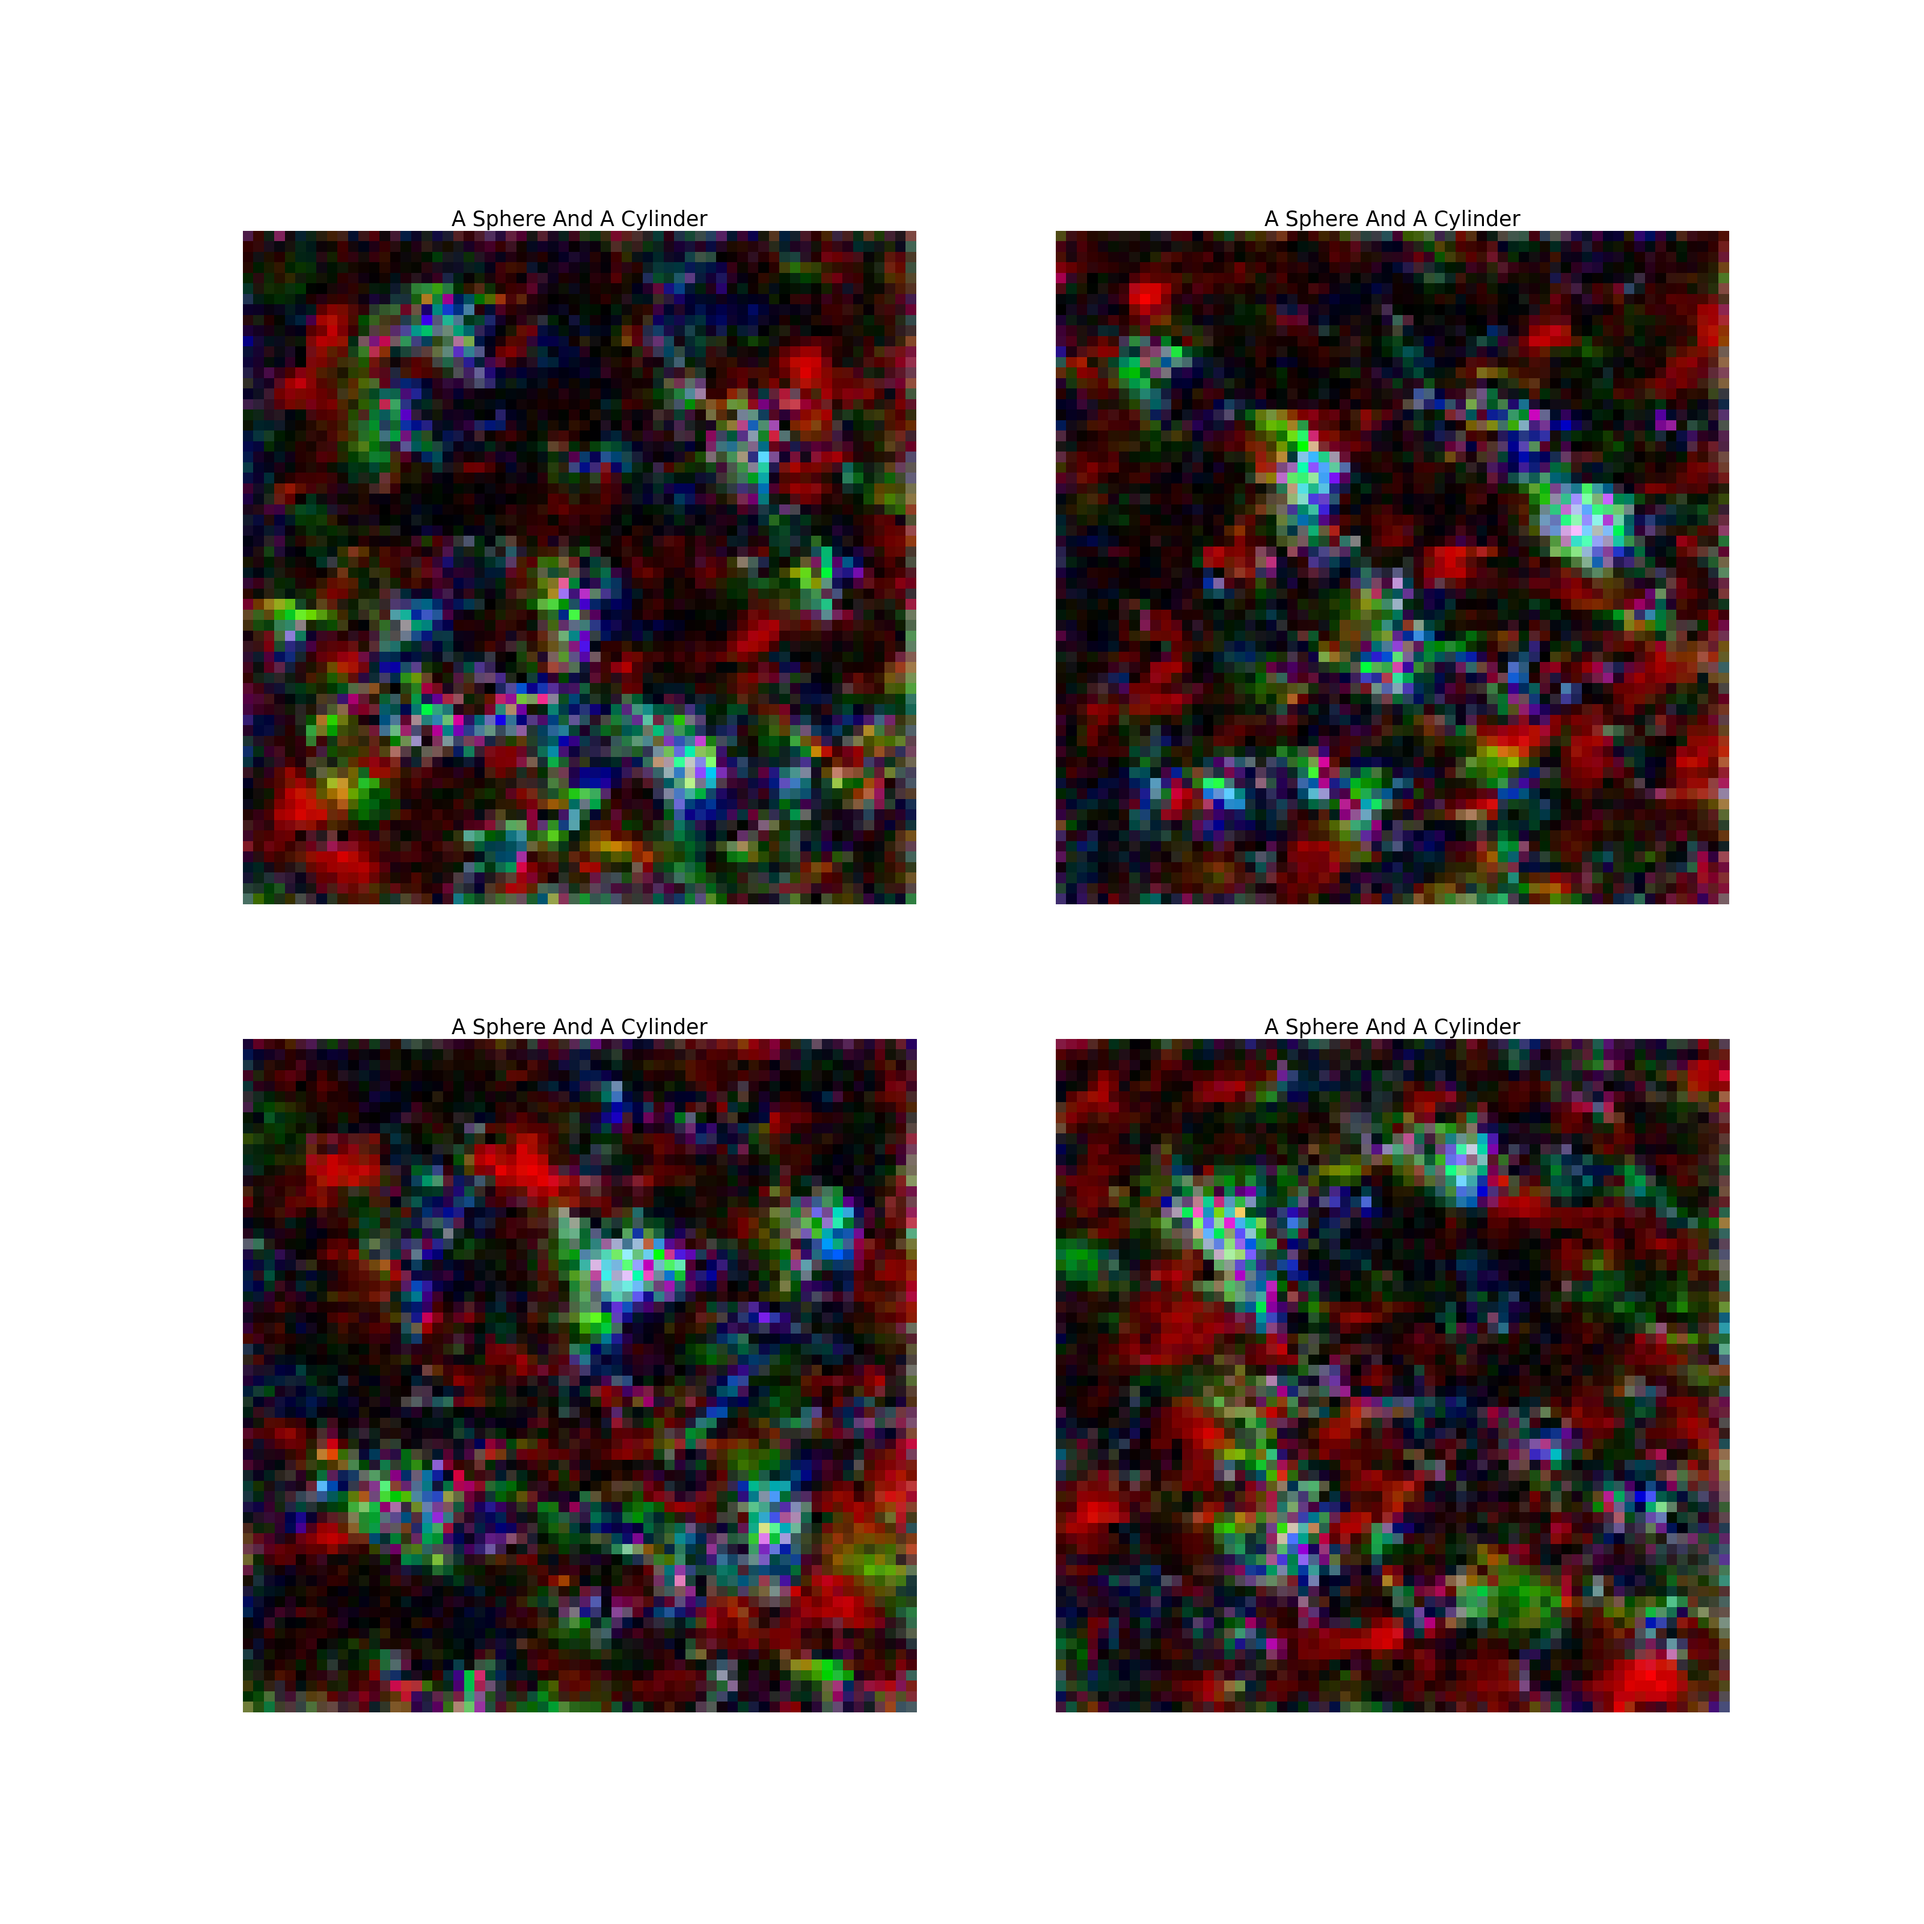
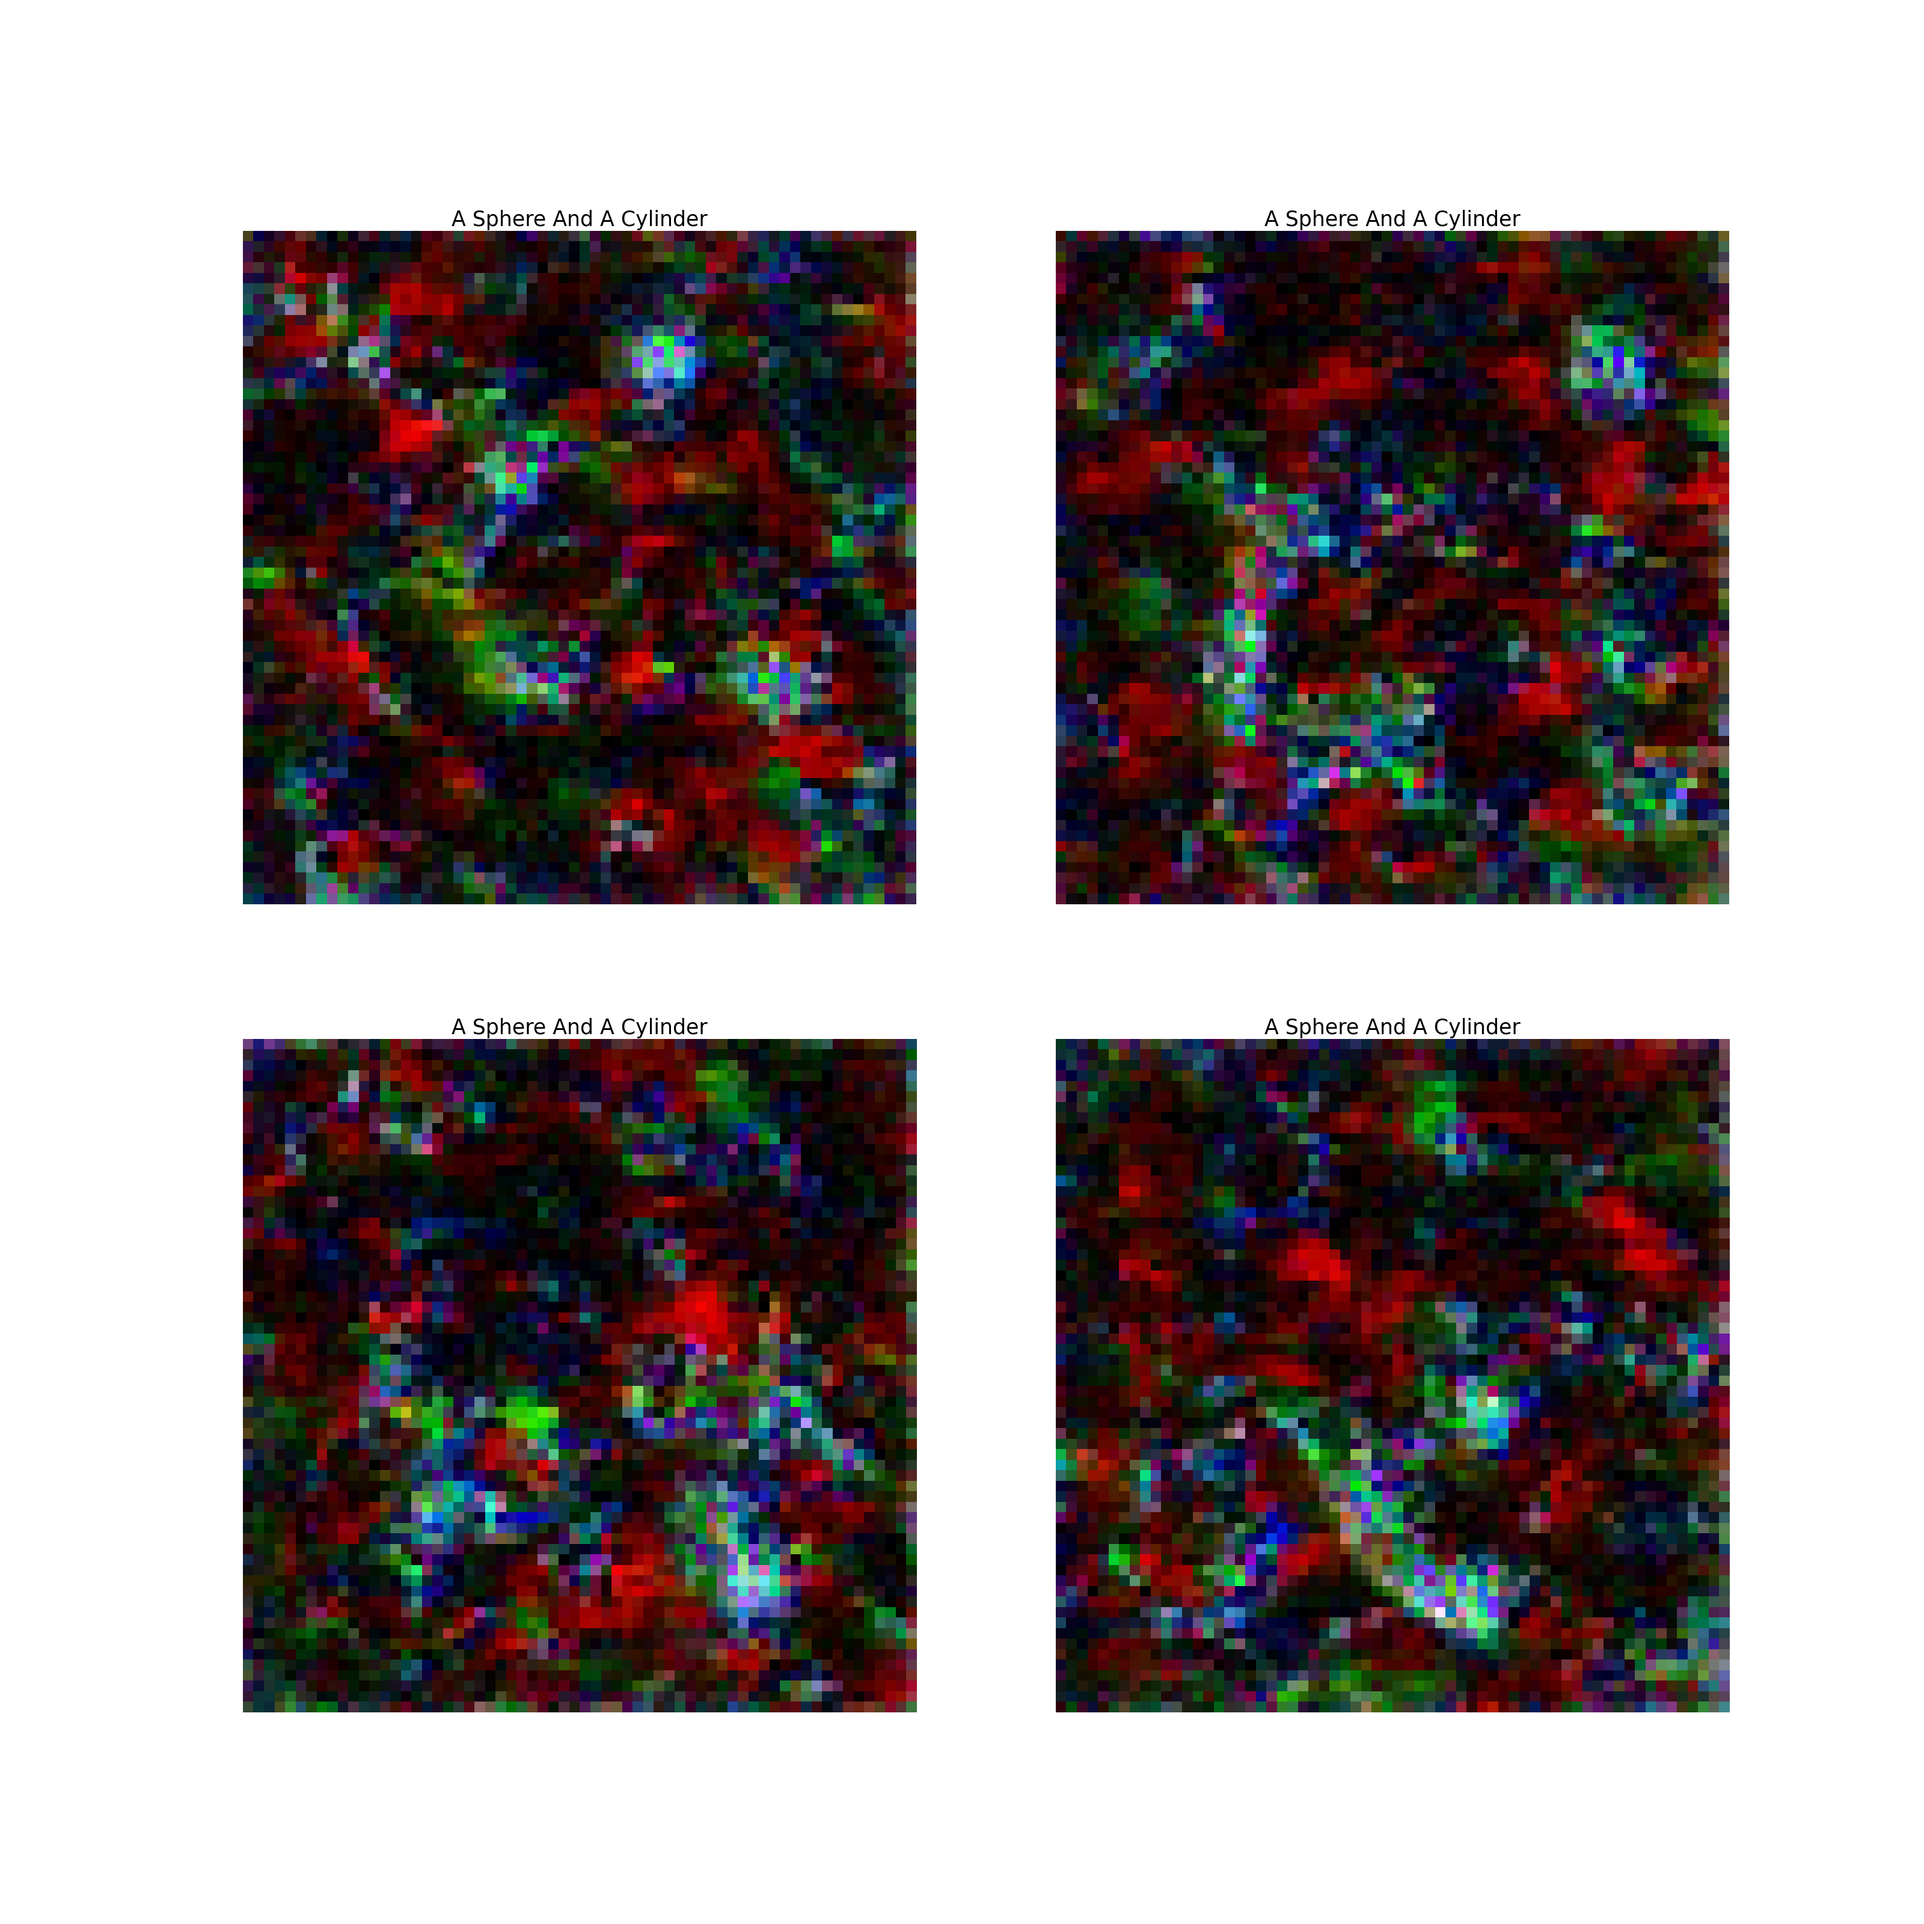
uncond ok

diff --git a/ebm_finetune/finetune.py b/ebm_finetune/finetune.py
@@ -33,7 +33,7 @@ def base_train_step(
     """
     tokens, masks, reals = [x.to(device) for x in batch]
     
-    th.save(reals, os.path.join('/home/zjf/repo/ebm_new/tmp_out', 'out.pth'))
+    # th.save(reals, os.path.join('/home/zjf/repo/ebm_new/tmp_out', 'out.pth'))
     timesteps = th.randint(
         0, len(diffusion.betas) - 1, (reals.shape[0],), device=device
     )
@@ -124,6 +124,7 @@ def run_ebm_finetune_epoch(
     upsample_factor=4,
     image_to_upsample='low_res_face.png',
     energy_mode = False,
+    shapenet=True
 ):
     if train_upsample: train_step = upsample_train_step
     else: train_step = base_train_step
@@ -158,41 +159,42 @@ def run_ebm_finetune_epoch(
                 print(f"Sampling from model at iteration {train_idx}")
             
             
-            # if energy_mode:
-            #     sampler = utils.energy_sample
-            #     # sampler = utils.sample
-            # else:
-            #     sampler = utils.sample
+            if energy_mode:
+                sampler = utils.energy_sample
+                # sampler = utils.sample
+            else:
+                sampler = utils.sample
             
-            # samples =sampler(
-            #     uncond = uncond,
-            #     model=model,
-            #     options=options,
-            #     batch_size=sample_bs,
-            #     guidance_scale=sample_gs, 
-            #     device=device,
-            #     prediction_respacing=sample_respacing,
-            # ).detach()
-            # sample_save_path = os.path.join(outputs_dir, f"{train_idx}.png")
-            # train_util.pred_to_pil(samples).save(sample_save_path)
-            # if uncond:
-            #      if is_master:
-            #         wandb_run.log(
-            #             {
-            #                 **log,
-            #                 "iter": train_idx,
-            #                 "samples": wandb.Image(sample_save_path, caption="Unconditional"),
-            #             }
-            #         )
-            # else:
-            #     if is_master:
-            #         wandb_run.log(
-            #             {
-            #                 **log,
-            #                 "samples": wandb.Image(sample_save_path,caption=prompt["caption"]),
-            #             }
-            #      )
-            # print(f"Saved sample {sample_save_path}")
+            samples =sampler(
+                uncond = uncond,
+                model=model,
+                options=options,
+                batch_size=sample_bs,
+                guidance_scale=sample_gs, 
+                device=device,
+                prediction_respacing=sample_respacing,
+                shapenet=shapenet
+            ).detach()
+            sample_save_path = os.path.join(outputs_dir, f"{epoch}_{train_idx}.png")
+            train_util.pred_to_pil(samples).save(sample_save_path)
+            if uncond:
+                 if is_master:
+                    wandb_run.log(
+                        {
+                            **log,
+                            "iter": train_idx,
+                            "samples": wandb.Image(sample_save_path, caption="Unconditional"),
+                        }
+                    )
+            else:
+                if is_master:
+                    wandb_run.log(
+                        {
+                            **log,
+                            "samples": wandb.Image(sample_save_path,caption=prompt["caption"]),
+                        }
+                 )
+            print(f"Saved sample {sample_save_path}")
             
         if is_master and ((train_idx % 500 == 0 and train_idx > 0) or (train_idx==0 and epoch==0)):
             train_util.save_model(model, checkpoints_dir, train_idx, epoch)

diff --git a/inf_sample_shapenet.py b/inf_sample_shapenet.py
@@ -78,7 +78,7 @@ model_path1= args.ckpt_path #
 options["noise_schedule"]= "linear"
 options["learn_sigma"] = False
 options["use_fp16"] = False
-options["num_classes"] = ""  # "4,"
+options["num_classes"] = None  # "4,"
 options["dataset"] = "clevr_norel"
 options["image_size"] =   128#  128 , 3 
 options["num_channels"] = 128 #192 
@@ -147,6 +147,11 @@ print(masks)
 print(labels.shape)
 
 
+model_kwargs = dict(
+        y=None,
+        masks=None
+            )
+full_batch_size = batch_size
 
 def model_fn_t(x_t, ts, **kwargs):
     cond_eps = model1(x_t, ts,eval=True, **kwargs)
@@ -160,17 +165,7 @@ def model_fn_t(x_t, ts, **kwargs):
 
 
 def cfg_model_fn(x_t, ts, **kwargs):
-    half = x_t[:1]
-    combined = th.cat([half] * kwargs['y'].size(0), dim=0)
-    eps = model1(combined, ts,eval=True, **kwargs)
-    # eps, rest = model_out[:, :3], model_out[:, 3:]
-
-    cond_eps, uncond_eps = eps[:-1], eps[-1:]
-    # assume weights are equal to guidance scale
-    # print(cond_eps.shape,uncond_eps.shape)
-    half_eps = uncond_eps + guidance_scale*(cond_eps - uncond_eps).sum(dim=0, keepdim=True)
-    eps = th.cat([half_eps] * x_t.size(0), dim=0)
-    return eps
+    return model1(x_t, ts, y=None,masks=None, eval=True)
 
 def cfg_model_fn_noen(x_t, ts, **kwargs):
     half = x_t[:1]
@@ -230,8 +225,9 @@ la_steps = 20
 la_step_sizes = diffusion.betas * 0.035
 
 def gradient_cha(x_t, ts, **kwargs):
-    half = x_t[:1]
-    combined = th.cat([half] * kwargs['y'].size(0), dim=0)
+    # half = x_t[:1]
+    # combined = th.cat([half] * kwargs['y'].size(0), dim=0)
+    combined = x_t
     energy_norm,eps = model1(combined, ts, mala_sampler=True,**kwargs)
 
     cond_energy,uncond_energy = energy_norm[:-1], energy_norm[-1:]
@@ -284,7 +280,7 @@ for k in range(4):
         samples = diffusion.p_sample_loop(
             sampler,
             cfg_model_fn,
-            (full_batch_size, 3, 64, 64),
+            (full_batch_size, 3, 128, 128),
             device=device,
             clip_denoised=True,
             progress=True,

diff --git a/inf_sample_shapenet_new.py b/inf_sample_shapenet_new.py
@@ -1,0 +1,63 @@
+from ebm_finetune import train_util, utils
+from composable_diffusion.model_creation import (
+    create_model_and_diffusion,
+    model_and_diffusion_defaults,
+    create_gaussian_diffusion,
+    Sampler_create_gaussian_diffusion,
+)
+import argparse
+import torch
+import os
+
+
+parser = argparse.ArgumentParser()
+parser.add_argument('--ckpt_path', required=True)
+parser.add_argument('--sampler', type=str, default="mala",choices=["MALA", "HMC", "UHMC", "ULA","Rev_Diff"])
+args = parser.parse_args()
+
+guidance_scale = 4
+batch_size = 1
+sample_respacing = '100'
+outputs_dir = "sample_out"
+
+def main():
+    has_cuda = torch.cuda.is_available()
+    device = torch.device('cpu' if not has_cuda else 'cuda')
+    options = model_and_diffusion_defaults()
+
+    #128x128
+    model_path1= args.ckpt_path # 
+    options["noise_schedule"]= "linear"
+    options["learn_sigma"] = False
+    options["use_fp16"] = False
+    options["num_classes"] = ""  # "4,"
+    options["dataset"] = "clevr_norel"
+    options["image_size"] =   128#  128 , 3 
+    options["num_channels"] = 128 #192 
+    options["num_res_blocks"] = 2 #2
+    options["energy_mode"] = True
+
+    # base_timestep_respacing = '100'
+    
+    weights = torch.load(model_path1, map_location="cpu")
+    model,_ = create_model_and_diffusion(**options)
+    model.load_state_dict(weights, strict=True)
+    model.num_classes = None
+    model.to(device)
+    
+    sampler = utils.energy_sample
+    samples =sampler(
+        uncond = True,
+        model=model,
+        options=options,
+        batch_size=batch_size,
+        guidance_scale=guidance_scale, 
+        device=device,
+        prediction_respacing=sample_respacing,
+    ).detach()
+    
+    sample_save_path = os.path.join(outputs_dir, f"sample.png")
+    train_util.pred_to_pil(samples).save(sample_save_path)
+    
+if __name__ == '__main__':
+    main()

diff --git a/ebm_finetune/utils.py b/ebm_finetune/utils.py
@@ -145,6 +145,7 @@ def energy_sample(
     guidance_scale=4,
     device="cpu",
     prediction_respacing="100",
+    shapenet=True
 ):
     eval_diffusion = Sampler_create_gaussian_diffusion(
         steps=options["diffusion_steps"],
@@ -157,7 +158,7 @@ def energy_sample(
 
 
     # Change if you want to sample from different class
-    size = 64
+    size = 128 if shapenet else 64
     labels = th.tensor([[2]]).long()
 
 
@@ -174,7 +175,7 @@ def energy_sample(
             )
         full_batch_size = batch_size
         def model_fn(x, t, **kwargs):
-            return model(x, t, y=None,masks=None)
+            return model(x, t, y=None,masks=None, eval=True)
     else:
         model_kwargs = dict(
         y=labels.clone().detach().to(device),

diff --git a/ebm_finetune/train_util.py b/ebm_finetune/train_util.py
@@ -6,7 +6,7 @@ import PIL
 import torch as th
 import wandb
 from tqdm import tqdm
-
+from PIL import Image
 
 def save_model(
     model: th.nn.Module, checkpoints_dir: str, train_idx: int, epoch: int,ddp=True
@@ -27,10 +27,10 @@ def save_model(
     )
 
 
-def pred_to_pil(pred: th.Tensor) -> PIL.Image:
+def pred_to_pil(pred: th.Tensor):
     scaled = ((pred + 1) * 127.5).round().clamp(0, 255).to(th.uint8).cpu()
     reshaped = scaled.permute(2, 0, 3, 1).reshape([pred.shape[2], -1, 3])
-    return PIL.Image.fromarray(reshaped.numpy())
+    return Image.fromarray(reshaped.numpy())
 
 
 def pil_image_to_norm_tensor(pil_image):

diff --git a/train_ddp.py b/train_ddp.py
@@ -146,7 +146,8 @@ def run_ebm_finetune(
             epoch=epoch,
             gradient_accumualation_steps=1,
             train_upsample=enable_upsample,
-            energy_mode= energy_mode
+            energy_mode= energy_mode,
+            shapenet=shapenet
         )
 
 

diff --git a/ebm_finetune/loader.py b/ebm_finetune/loader.py
@@ -115,6 +115,7 @@ class blender_64(data.Dataset):
 
         return f'A {self.shapes[label[0]]}'
     
+    
 class shapenet_128(data.Dataset):
     def __init__(self, 
                  data_dir="./scratch/EBM/srn_cars/",
